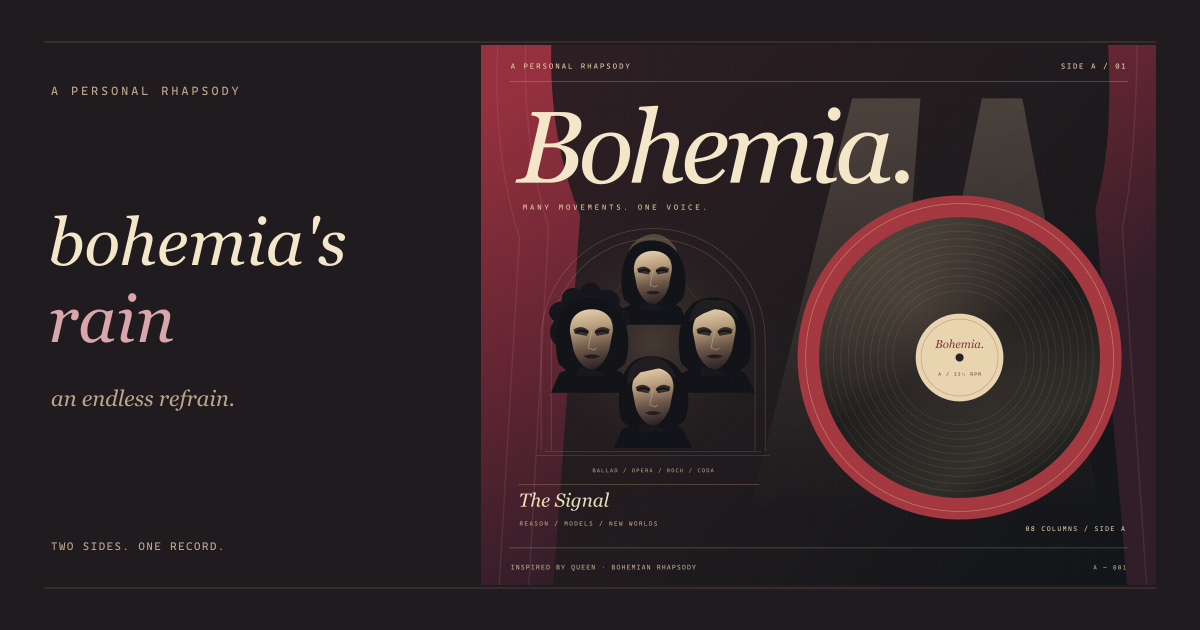
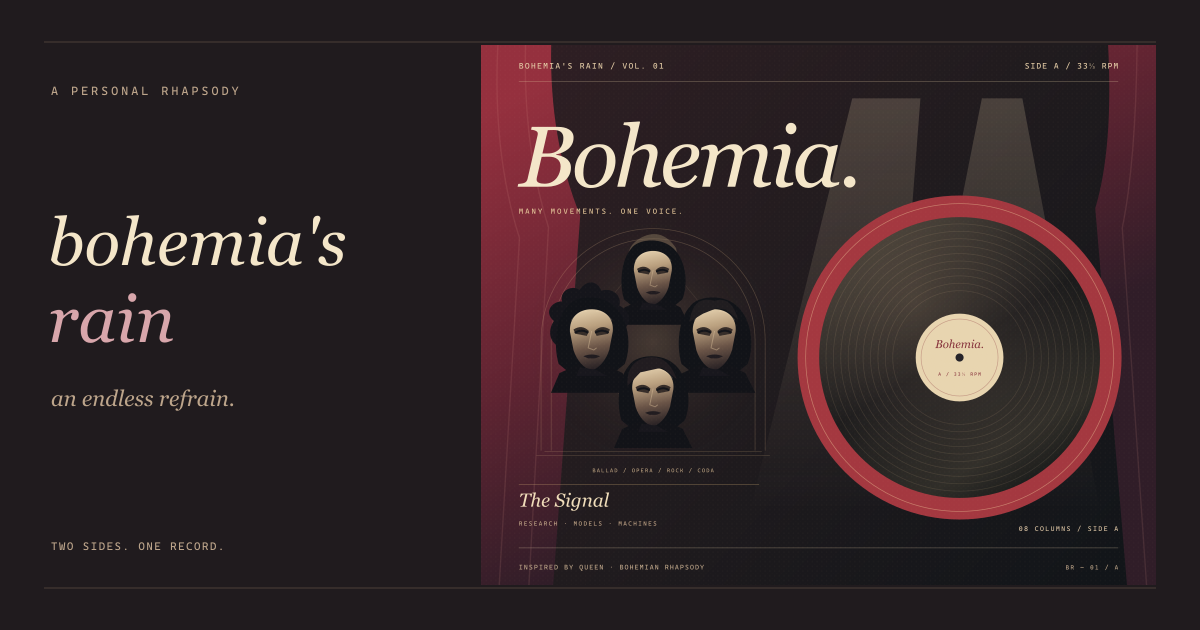
Unify the identity and mood of both record sides

diff --git a/src/styles/record.css b/src/styles/record.css
@@ -1,23 +1,29 @@
 /* One record, two readings. These styles are loaded only by the home page. */
+.record-home { --record-accent: var(--accent); --record-soft: var(--accent-soft); }
+.record-home[data-record-side="side-b"] { --record-accent: #756080; --record-soft: color-mix(in srgb,#8b6d9e 13%,var(--paper)); }
+[data-theme="dark"] .record-home[data-record-side="side-b"] { --record-accent: #c7afd9; }
 .record-home .hero h1 { font-size: clamp(34px, 3.8vw, 54px); white-space: normal; letter-spacing: 1px; }
-.hero-refrain { margin-top: 14px; font: italic 20px/1.5 Georgia, serif; color: var(--accent); }
+.hero-refrain { margin-top: 14px; min-height: 1.5em; font: italic 20px/1.5 Georgia, serif; color: var(--record-accent); transition: color 240ms ease; }
 .record-home .hero-description { margin-top: 17px; }
+.hero-side-descriptor { font-size: 11px; letter-spacing: .25px; }
+.record-home .hero-footnote .tiny-signal { color: var(--record-accent); }
 .record-showcase { min-width: 0; }
-.record-scene { position: relative; aspect-ratio: 1.25; perspective: 1450px; border-radius: 2px; box-shadow: 7px 7px 0 var(--line); }
+.record-scene { position: relative; aspect-ratio: 1.25; perspective: 1450px; border-radius: 2px; box-shadow: 7px 7px 0 color-mix(in srgb,var(--line),var(--record-accent) 12%); transition: box-shadow 240ms ease; }
 .record-flipper { position: absolute; inset: 0; transform: rotateY(0deg); transform-style: preserve-3d; transition: transform 820ms cubic-bezier(.22,.65,.24,1); }
 .record-face { position: absolute; inset: 0; backface-visibility: hidden; -webkit-backface-visibility: hidden; border-radius: 2px; }
 .record-face img { display: block; width: 100%; height: 100%; border-radius: inherit; object-fit: cover; }
 .record-face-back { transform: rotateY(180deg); }
 [data-record-side="side-b"] .record-flipper { transform: rotateY(180deg); }
-.record-showcase figcaption { margin-top: 17px; align-items: center; gap: 12px; min-height: 44px; }
-.record-caption { font-size: 10px; line-height: 1.8; color: var(--muted); }
+.record-showcase figcaption { display: grid; grid-template-columns: minmax(0,1fr) auto; margin-top: 17px; align-items: center; gap: 12px; min-height: 44px; }
+.record-caption { min-width: 0; font-size: 10px; line-height: 1.8; color: var(--muted); }
+.record-caption-subtitle { display: block; font: 9px/1.8 var(--mono); letter-spacing: .15px; color: var(--record-accent); transition: color 240ms ease; }
 .record-toggle-wrap { position: relative; flex-shrink: 0; }
-.record-toggle { display: grid; place-items: center; padding: 0 3px; min-height: 44px; min-width: 110px; color: var(--accent); border-radius: 3px; }
+.record-toggle { display: grid; place-items: center; padding: 0 3px; min-height: 44px; min-width: 124px; color: var(--record-accent); border-radius: 3px; }
 .record-toggle:disabled { cursor: wait; }
-.record-toggle:focus-visible { outline: 2px solid var(--accent); outline-offset: 4px; }
-.record-toggle-surface { display: inline-flex; align-items: center; gap: 11px; padding: 9px 12px; border: 1px solid color-mix(in srgb, var(--accent), transparent 60%); border-radius: 3px; background: color-mix(in srgb, var(--accent-soft), transparent 20%); font: 10px/1.4 var(--mono); letter-spacing: 1.1px; animation: record-breathe 3s ease-in-out infinite; transition: background 180ms, border-color 180ms, color 180ms; }
+.record-toggle:focus-visible { outline: 2px solid var(--record-accent); outline-offset: 4px; }
+.record-toggle-surface { display: inline-flex; align-items: center; gap: 10px; padding: 9px 11px; border: 1px solid color-mix(in srgb, var(--record-accent), transparent 60%); border-radius: 3px; background: color-mix(in srgb, var(--record-soft), transparent 20%); font: 10px/1.4 var(--mono); letter-spacing: .7px; white-space: nowrap; animation: record-breathe 3s ease-in-out infinite; transition: background 180ms, border-color 180ms, color 180ms; }
 .record-toggle-arrow { transition: transform 300ms ease; }
-.record-toggle:hover .record-toggle-surface, .record-toggle:focus-visible .record-toggle-surface { animation-play-state: paused; background: var(--accent); border-color: var(--accent); color: var(--paper); }
+.record-toggle:hover .record-toggle-surface, .record-toggle:focus-visible .record-toggle-surface { animation-play-state: paused; background: var(--record-accent); border-color: var(--record-accent); color: var(--paper); }
 .record-toggle:hover .record-toggle-arrow, .record-toggle:focus-visible .record-toggle-arrow { transform: rotate(35deg); }
 .record-toggle-hint { position: absolute; bottom: calc(100% + 7px); right: 3px; padding: 6px 9px; border: 1px solid var(--line); border-radius: 3px; background: var(--paper); color: var(--muted); font-size: 10px; white-space: nowrap; opacity: 0; visibility: hidden; transform: translateY(3px); pointer-events: none; transition: opacity 160ms, transform 160ms, visibility 160ms; }
 .record-toggle-wrap:hover .record-toggle-hint, .record-toggle-wrap:focus-within .record-toggle-hint { opacity: 1; visibility: visible; transform: translateY(0); }
@@ -28,30 +34,30 @@
 .record-tracklist { border: 1px solid var(--line); border-radius: 3px; overflow: clip; background: var(--paper); scroll-margin-top: 24px; }
 /* Both panels occupy the same grid cell and reserve the taller side's height. */
 .record-programs { display: grid; }
-.record-program { grid-area: 1 / 1; display: flex; flex-direction: column; min-width: 0; padding: 27px 27px 0; opacity: 0; visibility: hidden; pointer-events: none; transform: translateY(6px); transition: opacity 150ms ease, transform 180ms ease, visibility 0s 180ms; background: radial-gradient(ellipse at 100% 0%, color-mix(in srgb,var(--accent-soft),transparent 20%), transparent 55%); }
-.record-program[data-record-panel="side-b"] { background: radial-gradient(ellipse at 100% 0%, color-mix(in srgb,var(--surface),transparent 5%), transparent 58%); }
+.record-program { grid-area: 1 / 1; display: flex; flex-direction: column; min-width: 0; padding: 27px 27px 0; opacity: 0; visibility: hidden; pointer-events: none; transform: translateY(6px); transition: opacity 150ms ease, transform 180ms ease, visibility 0s 180ms; background: radial-gradient(ellipse at 100% 0%, color-mix(in srgb,var(--record-soft),transparent 20%), transparent 55%); }
+.record-program[data-record-panel="side-b"] { background: radial-gradient(ellipse at 100% 0%, var(--record-soft), transparent 58%); }
 [data-record-side="side-a"] [data-record-panel="side-a"], [data-record-side="side-b"] [data-record-panel="side-b"] { opacity: 1; visibility: visible; pointer-events: auto; transform: translateY(0); transition: opacity 250ms ease 170ms, transform 350ms ease 170ms, visibility 0s 170ms; }
 .record-program-header { display: flex; align-items: center; justify-content: space-between; gap: 20px; }
-.record-program-header .eyebrow { font-size: 9px; letter-spacing: 1.5px; color: var(--accent); }
+.record-program-header .eyebrow { font-size: 9px; letter-spacing: 1.5px; color: var(--record-accent); }
 .record-program-header .eyebrow > span { margin-inline: 8px; color: var(--faint); }
 .record-program-header h3 { font: italic 36px/1.3 Georgia, 'Times New Roman', serif; letter-spacing: -.7px; margin-top: 10px; }
-.record-program-header h3 > span { color: var(--accent); }
+.record-program-header h3 > span { color: var(--record-accent); }
 .record-program-heading { font-family: var(--serif); font-size: 13px; color: var(--muted); margin-top: 8px; letter-spacing: 1px; }
-.record-program-mark { width: 64px; height: 64px; flex-shrink: 0; display: grid; place-items: center; border: 1px solid var(--line); border-radius: 50%; position: relative; font: italic 34px/1 Georgia, serif; color: color-mix(in srgb,var(--accent),transparent 10%); padding-bottom: 9px; }
+.record-program-mark { width: 64px; height: 64px; flex-shrink: 0; display: grid; place-items: center; border: 1px solid var(--line); border-radius: 50%; position: relative; font: italic 34px/1 Georgia, serif; color: color-mix(in srgb,var(--record-accent),transparent 10%); padding-bottom: 9px; }
 .record-program-mark:before { content: ''; position: absolute; inset: 5px; border: 1px solid var(--line); border-radius: 50%; }
 .record-program-mark i { position: absolute; bottom: 12px; right: -7px; background: var(--paper); padding: 2px 3px; font: normal 7px/1.5 var(--mono); letter-spacing: .5px; color: var(--muted); }
 .record-program-intro { font-size: 11px; line-height: 1.9; color: var(--muted); margin-top: 20px; padding-bottom: 20px; border-bottom: 1px solid var(--line); }
 .record-columns { flex: 1; list-style: none; margin: 0; padding: 0; }
 .record-column { min-width: 0; padding: 27px 0 29px; border-bottom: 1px solid var(--line); }
 .record-column-header { display: grid; grid-template-columns: 20px minmax(0,1fr) auto; align-items: start; gap: 12px; }
-.record-column-number { font: 9px/1.8 var(--mono); color: var(--accent); margin-top: 3px; }
+.record-column-number { font: 9px/1.8 var(--mono); color: var(--record-accent); margin-top: 3px; }
 .record-column-copy { min-width: 0; }
 .record-column h4 { font: italic 27px/1.4 Georgia, 'Times New Roman', serif; font-weight: 400; margin: 0; overflow-wrap: anywhere; text-wrap: pretty; }
 .record-column h4 a > span { color: var(--accent); font: 12px var(--sans); }
 .record-column-copy > p { font-size: 12px; line-height: 1.9; color: var(--muted); margin-top: 7px; text-wrap: pretty; }
 .record-column-upcoming { display: inline-flex; align-items: center; gap: 5px; font-size: 9px; line-height: 1.6; color: var(--faint); }
 .record-column-upcoming:before { content: ''; width: 3px; height: 3px; border: 1px solid currentColor; border-radius: 50%; }
-.record-column-more { justify-self: end; margin-top: 9px; white-space: nowrap; font-size: 10px; color: var(--accent); }
+.record-column-more { justify-self: end; margin-top: 9px; white-space: nowrap; font-size: 10px; color: var(--record-accent); }
 .record-column-empty { margin-top: 12px; padding-left: 32px; }
 .record-column-preview-note { display: flex; align-items: center; flex-wrap: wrap; gap: 8px 10px; margin-top: 18px; padding-left: 32px; color: var(--faint); font-size: 10px; line-height: 1.9; }
 .record-column-articles { display: grid; grid-template-columns: repeat(2,minmax(0,1fr)); gap: 30px 25px; margin-top: 23px; padding-left: 32px; }
@@ -63,15 +69,17 @@
 .record-column-articles .post-card-bottom { font-size: 10px; margin-top: auto; }
 .record-program-footer { display: flex; justify-content: space-between; align-items: center; gap: 15px; padding-block: 17px; color: var(--faint); font-size: 9px; }
 .record-program-footer > span:first-child { font-family: var(--mono); font-size: 8px; letter-spacing: 1px; }
-.record-program-footer > span:first-child > span { margin-inline: 6px; color: var(--accent); }
+.record-program-footer > span:first-child > span { margin-inline: 6px; color: var(--record-accent); }
 .record-now-playing { padding-block: 26px; margin-top: 28px; border-block: 1px solid var(--line); }
 .record-now-playing > .eyebrow { font-size: 8px; letter-spacing: 1.4px; }
 .record-now-playing-head { display: flex; align-items: center; gap: 13px; margin-top: 17px; }
 .record-now-playing-disc { width: 38px; height: 38px; border-radius: 50%; position: relative; flex-shrink: 0; background: repeating-radial-gradient(circle at center,var(--ink) 0 3px,color-mix(in srgb,var(--ink),var(--paper) 12%) 3.5px 4px); }
-.record-now-playing-disc:after { content: ''; position: absolute; inset: 14px; background: var(--accent); border-radius: 50%; border: 3px solid var(--paper); }
-.record-now-playing-head h2 { font: italic 22px/1.5 Georgia, serif; }
-.record-now-playing-head p { font: 8px/1.5 var(--mono); letter-spacing: 1px; color: var(--accent); }
-.record-now-playing-caption { display: flex; justify-content: space-between; gap: 12px; font-size: 10px; line-height: 1.8; color: var(--muted); margin-top: 14px; }
+.record-now-playing-disc:after { content: ''; position: absolute; inset: 14px; background: var(--record-accent); border-radius: 50%; border: 3px solid var(--paper); }
+.record-now-playing-head > div { min-width: 0; }
+.record-now-playing-head h2 { min-height: 1.5em; font: italic 22px/1.5 Georgia, serif; overflow-wrap: anywhere; }
+.record-now-playing-head p { font: 8px/1.5 var(--mono); letter-spacing: 1px; color: var(--record-accent); }
+.record-now-playing-caption { display: flex; flex-direction: column; gap: 4px; font-size: 10px; line-height: 1.8; color: var(--muted); margin-top: 14px; }
+.record-now-playing-caption > :first-child { color: var(--record-accent); font-size: 9px; }
 .record-now-playing > .text-link { margin-top: 16px; font-size: 10px; }
 
 @media (max-width:1100px) {
@@ -91,7 +99,7 @@
   .record-home .hero h1 { font-size: clamp(27px,8.4vw,44px); letter-spacing: .7px; }
   .hero-refrain { font-size: 19px; margin-top: 13px; }
   .record-home .hero-description { font-size: 11px; }
-  .record-scene { box-shadow: 5px 5px 0 var(--line); }
+  .record-scene { box-shadow: 5px 5px 0 color-mix(in srgb,var(--line),var(--record-accent) 12%); }
   .record-showcase figcaption { margin-top: 14px; }
   .record-caption { font-size: 9px; }
   .record-program { padding: 24px 21px 0; }
@@ -125,9 +133,9 @@
   .record-program-header h3 { font-size: 28px; }
   .record-program-mark { width: 45px; height: 45px; font-size: 25px; }
   .record-column h4 { font-size: 22px; }
-  .record-toggle { min-width: 105px; }
+  .record-toggle { min-width: 120px; }
 }
 @media (prefers-reduced-motion:reduce) {
-  .record-flipper, .record-program, .record-toggle-surface, .record-toggle-arrow, .record-toggle-hint { animation: none !important; transition: none !important; }
+  .record-flipper, .record-program, .record-toggle-surface, .record-toggle-arrow, .record-toggle-hint, .record-scene, .hero-refrain, .record-caption-subtitle { animation: none !important; transition: none !important; }
   .record-program { transform: none; }
 }

diff --git a/src/scripts/record.ts b/src/scripts/record.ts
@@ -25,10 +25,14 @@ export function initRecord(root: HTMLElement) {
     }
     button.setAttribute('aria-pressed', String(index === 1));
     button.title = `翻至 ${next.dataset.sideLabel} — ${next.dataset.sideCoverTitle}`;
-    root.querySelectorAll<HTMLElement>('[data-record-button-label], [data-now-playing-side]').forEach(label => { label.textContent = active.dataset.sideLabel!; });
+    root.querySelectorAll<HTMLElement>('[data-record-button-label]').forEach(label => { label.textContent = `翻至 ${next.dataset.sideLabel}`; });
+    root.querySelectorAll<HTMLElement>('[data-now-playing-side]').forEach(label => { label.textContent = active.dataset.sideLabel!; });
     root.querySelectorAll<HTMLElement>('[data-now-playing-name], [data-record-hero-title]').forEach(label => { label.textContent = active.dataset.sideCoverTitle!; });
     root.querySelectorAll<HTMLElement>('[data-record-credit]').forEach(label => { label.textContent = active.dataset.sideCredit!; });
     root.querySelectorAll<HTMLElement>('[data-now-playing-heading]').forEach(label => { label.textContent = active.dataset.sideHeading!; });
+    root.querySelectorAll<HTMLElement>('[data-record-side-subtitle]').forEach(label => { label.textContent = active.dataset.sideSubtitle!; });
+    root.querySelectorAll<HTMLElement>('[data-record-side-descriptor]').forEach(label => { label.textContent = active.dataset.sideDescriptor!; });
+    root.querySelectorAll<HTMLElement>('[data-record-side-intent]').forEach(label => { label.textContent = active.dataset.sideIntent!; });
     root.querySelectorAll<HTMLElement>('[data-now-playing-count]').forEach(label => { label.textContent = `${active.dataset.sideCount} 个专栏`; });
     if (announce && status) status.textContent = `当前 ${active.dataset.sideLabel}，${active.dataset.sideCoverTitle}，${active.dataset.sideCount} 个专栏。`;
   };

diff --git a/README.md b/README.md
@@ -10,6 +10,8 @@
 
 两面的封面各自独立：**Side A / Bohemia.** 以四道菱形排列的明暗人像、歌剧拱门与酒红帷幕回应 Queen《波西米亚狂想曲》；**Side B / endless refrain.** 以冷紫雨夜、窗上的雨和水面回响回应 X JAPAN《ENDLESS RAIN》。两面黑胶共用 Side A 的尺寸与位置，统一站名 **bohemia's rain**，翻面同步切换封面、首页签名、灵感署名与 Now Playing，专栏分组仍为 The Signal 与 The Afterglow。
 
+两面均以小字号标注 `BOHEMIA'S RAIN / VOL. 01`，共用边距、主标题字号和 `BR — 01 / A`、`BR — 01 / B` 编号。封面下方显示 `THE SIGNAL / 理性的噪声` 或 `THE AFTERGLOW / 感性的回响`，按钮明确标注下一面。A 面的描述为 Research · Models · Machines / 探索世界如何运作；B 面为 Music · Photography · Life / 记录世界如何触动自己。局部暖红与冷紫随翻面切换，明暗主题和减少动态效果设置均保留。
+
 ![Side A · Bohemia](docs/side-a-bohemia.png)
 
 ![Side B · endless refrain.](docs/side-b-endless-refrain.png)
